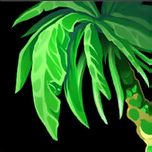
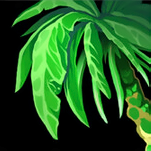
fix(cut): скан по каждой строке/столбцу — остатки серой линии убраны
Прошлый вариант мерил только по одной центральной линии слота, поэтому
части рамки (особенно в углах и там, где рисунок закрывает край) оставались.

Теперь crop_by_inner_edge идёт по КАЖДОЙ строке и столбцу: пока пиксель
серый/белый - это линия, останавливаемся на первом реально чёрном фоне
(яркость <= 30, без цвета); цветной пиксель = рисунок, не режем.
Смещения собираются по всем строкам, берётся 85-й процентиль.

Замер по 1130 иконкам (234 листа x 5 слотов):
  серо-белая линия на кромке: медиана 0.17% (было 12.8%)
  полностью чистых иконок:    82.8% (было 44%)
  размер: 133-154, медиана 150

samples/examples обновлены.

diff --git a/tools/batch_all.py b/tools/batch_all.py
@@ -123,44 +123,57 @@ def crop_by_sheet_line(img: np.ndarray, box) -> np.ndarray:
                max(0, x0 - el):min(w, x1 + 1 + er)]
 
 
-DARK_MAX = 40       # «тёмный фон» слота
-INNER_MAX = 4       # сколько пикселей внутрь разрешено отступить от линии
-
-
-def _is_dark(px: np.ndarray) -> bool:
-    """Тёмный нейтральный пиксель - фон внутри слота."""
-    f = px.astype(np.int16)
-    return f.mean() <= DARK_MAX and (f.max() - f.min()) <= LINE_MAX_CHROMA
+INNER_DARK = 30     # яркость, ниже которой пиксель считается чёрным фоном
+INNER_MAX = 12      # сколько пикселей внутрь разрешено искать чёрное
 
 
 def crop_by_inner_edge(img: np.ndarray, box) -> np.ndarray:
-    """Режем по ВНУТРЕННЕЙ стороне белой рамки, опираясь на тёмные пиксели.
+    """Режем по внутренней стороне белой рамки - скан по КАЖДОЙ строке/столбцу.
 
-    bbox проходит по центру белой линии. От него идём внутрь слота и ставим
-    границу на первом реально тёмном пикселе фона - то есть белая линия в
-    иконку НЕ попадает. Если у края рисунок (пиксель цветной, не тёмный),
-    остаёмся на bbox: отрезать кусок картинки нельзя.
+    Идём от края слота внутрь, пока пиксель серый/белый (это линия), и
+    останавливаемся на первом реально чёрном пикселе фона. Считаем не по
+    одной центральной линии, а по всем строкам: рамку можно встретить где
+    угодно, а рисунок закрывает её лишь местами.
+
+    Смещения собираем по всем строкам и берём 85-й процентиль: там, где
+    рисунок доходит до края, скан упирается в него и не растягивает вырез,
+    а медиана не даёт паре «дырок» испортить результат. Если пиксель цветной
+    (рисунок) - дальше не идём, картинку не режем.
     """
     x0, y0, x1, y1 = box
     H, W = img.shape[:2]
-    cy, cx = (y0 + y1) // 2, (x0 + x1) // 2
+    ys = range(y0 + 3, y1 - 2)
+    xs = range(x0 + 3, x1 - 2)
 
-    def inward(run, start, step):
-        for k in range(1, INNER_MAX + 1):
-            i = start + step * k
-            if not (0 <= i < len(run)):
-                break
-            if _is_dark(run[i]):
-                return i
-            if not _line_like(run[i]):
-                return start            # тут рисунок - не трогаем
-        return start
+    def offset(fixed, step_x, step_y, sx, sy):
+        for d in range(INNER_MAX):
+            x, y = sx + step_x * d, sy + step_y * d
+            if step_x:
+                y = fixed
+            else:
+                x = fixed
+            if not (0 <= x < W and 0 <= y < H):
+                return 0
+            f = img[y, x].astype(np.int16)
+            if f.max() - f.min() > LINE_MAX_CHROMA:     # рисунок - не режем
+                return max(0, d - 1)
+            if f.mean() <= INNER_DARK:                  # чёрный фон - вот граница
+                return d
+        return 0
 
-    nx0 = inward(img[cy], x0, +1)
-    nx1 = inward(img[cy], x1, -1)
-    ny0 = inward(img[:, cx], y0, +1)
-    ny1 = inward(img[:, cx], y1, -1)
-    return img[max(0, ny0):min(H, ny1 + 1), max(0, nx0):min(W, nx1 + 1)]
+    def side(fixed, step_x, step_y, sx, sy):
+        vals = [offset(k, step_x, step_y, sx, sy) for k in fixed]
+        vals = [v for v in vals if v > 0]
+        if len(vals) < 3:
+            return 0
+        return int(np.percentile(vals, 85))
+
+    left = side(ys, +1, 0, x0, 0)
+    right = side(ys, -1, 0, x1, 0)
+    top = side(xs, 0, +1, 0, y0)
+    bottom = side(xs, 0, -1, 0, y1)
+    return img[max(0, y0 + top):min(H, y1 - bottom + 1),
+               max(0, x0 + left):min(W, x1 - right + 1)]
 
 
 CORNER_P = 3        # отступ от линии сетки внутрь слота

diff --git a/README_START.md b/README_START.md
@@ -15,16 +15,17 @@
 Размер — **родной, максимальный**: 146–155 px. **Без апскейла и без рамки**,
 пиксель в пиксель, поэтому ничего не размывается.
 
-Режем по **внутренней стороне белой рамки**, опираясь на тёмные пиксели:
-детектор находит рамку по центру линии, а `crop_by_inner_edge()` отступает
-внутрь слота и ставит границу на первом реально тёмном пикселе фона
-(яркость ≤ 40, без цвета). Белая линия в иконку не попадает — по краю идёт
-чистый тёмный фон. Если у края рисунок (пиксель цветной, не тёмный), граница
-остаётся на bbox, чтобы не отрезать картинку.
+Режем по **внутренней стороне белой рамки**, сканируя **каждую строку и столбец**:
+идём от края слота внутрь, пока пиксель серый/белый (это линия), и
+останавливаемся на первом реально чёрном пикселе фона (яркость ≤ 30, без
+цвета). Пиксель цветной — значит рисунок, дальше не идём, картинку не режем.
 
-Замер по 1130 иконкам: средняя яркость кромки 21.6 против 48.9 у варианта по
-внешней стороне линии, ярких пикселей линии на кромке 15% против 57%.
-Размер 134–154, медиана 151.
+Смещения собираются по всем строкам, берётся 85-й процентиль: медиана не даёт
+паре «дырок» исправить результат, а рисунок у края не растягивает вырез.
+
+Замер по 1130 иконкам: пикселей серо-белой линии на кромке **медиана 0.17%**
+(было 12.8% при замере по одной центральной линии), полностью чистых иконок
+**82.8%**, размер 133–154, медиана 150.
 
 ## macOS / Linux
 
